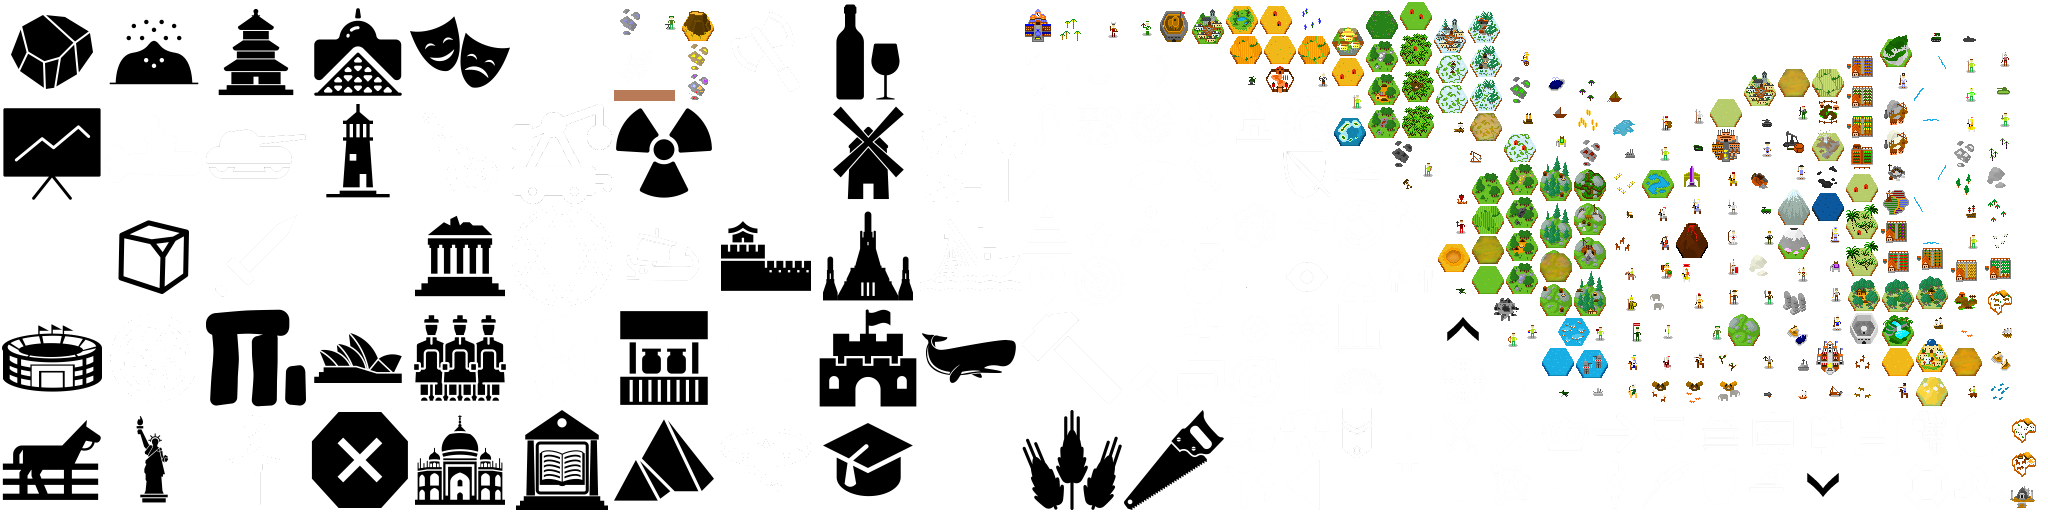
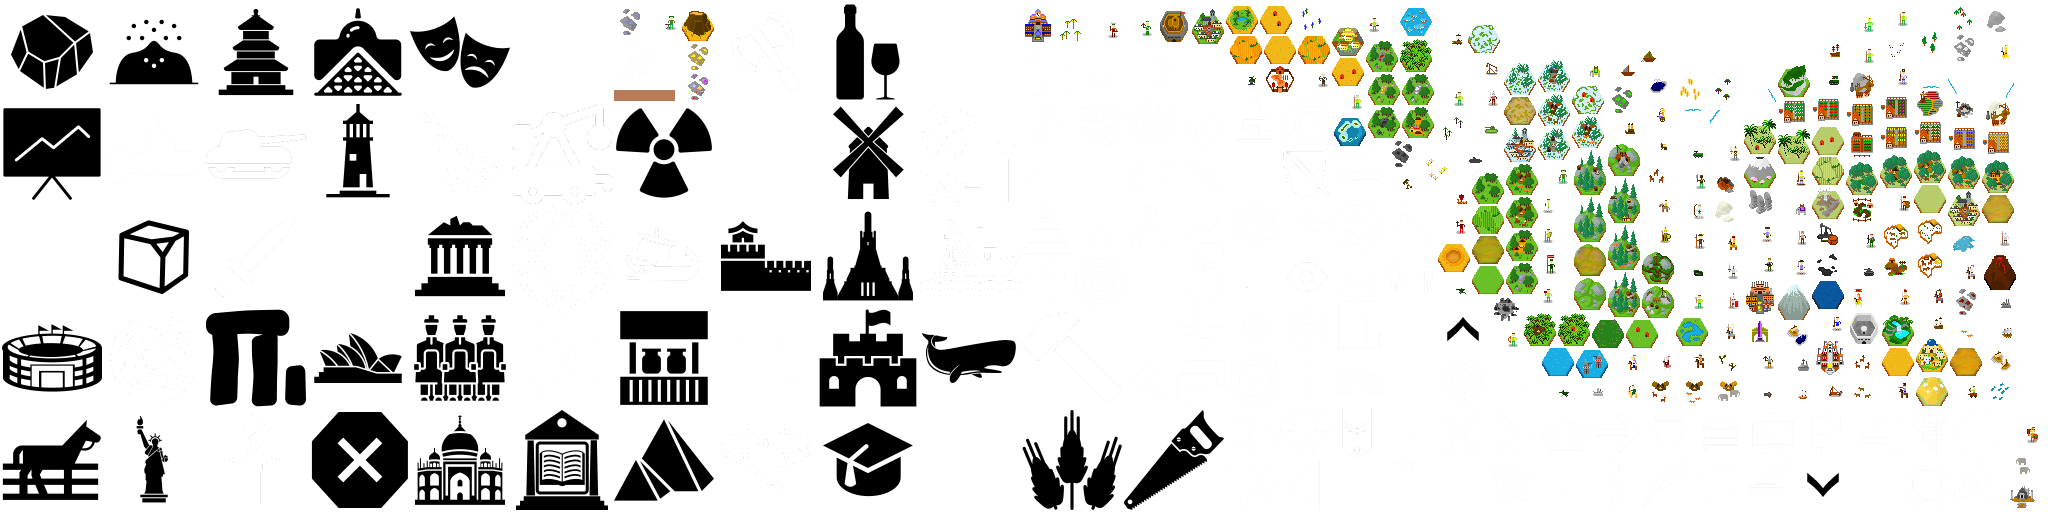
Added 4-way tile images (base,feature,improvement,resource) by The Bucketeer Fixed some issues with existing tile images

diff --git a/core/src/com/unciv/ui/tilegroups/TileGroup.kt b/core/src/com/unciv/ui/tilegroups/TileGroup.kt
@@ -160,6 +160,13 @@ open class TileGroup(var tileInfo: TileInfo, var tileSetStrings:TileSetStrings) 
         if (tileInfo.terrainFeature != null) {
             // e.g. Grassland+Forest
             val baseTerrainAndFeatureTileLocation = "$baseTerrainTileLocation+${tileInfo.terrainFeature}"
+            if(shouldShowImprovement && shouldShowResource){
+                // e.g. Grassland+Forest+Deer+Camp
+                val baseFeatureImprovementAndResourceLocation =
+                        "$baseTerrainAndFeatureTileLocation+${tileInfo.improvement}+${tileInfo.resource}"
+                if (ImageGetter.imageExists(baseFeatureImprovementAndResourceLocation))
+                    return listOf(baseFeatureImprovementAndResourceLocation)
+            }
             if(shouldShowImprovement){
                 // e.g. Grassland+Forest+Lumber mill
                 val baseFeatureAndImprovementTileLocation = "$baseTerrainAndFeatureTileLocation+${tileInfo.improvement}"
